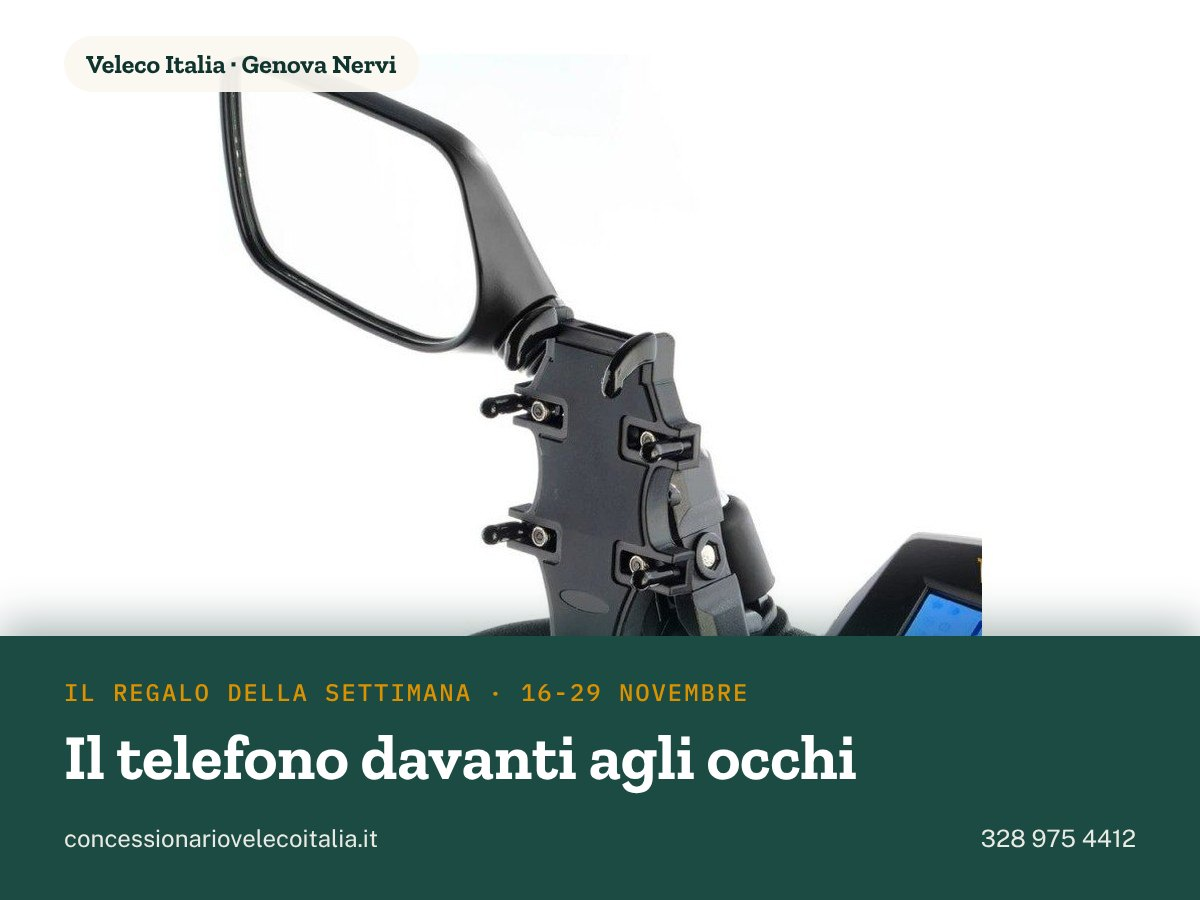
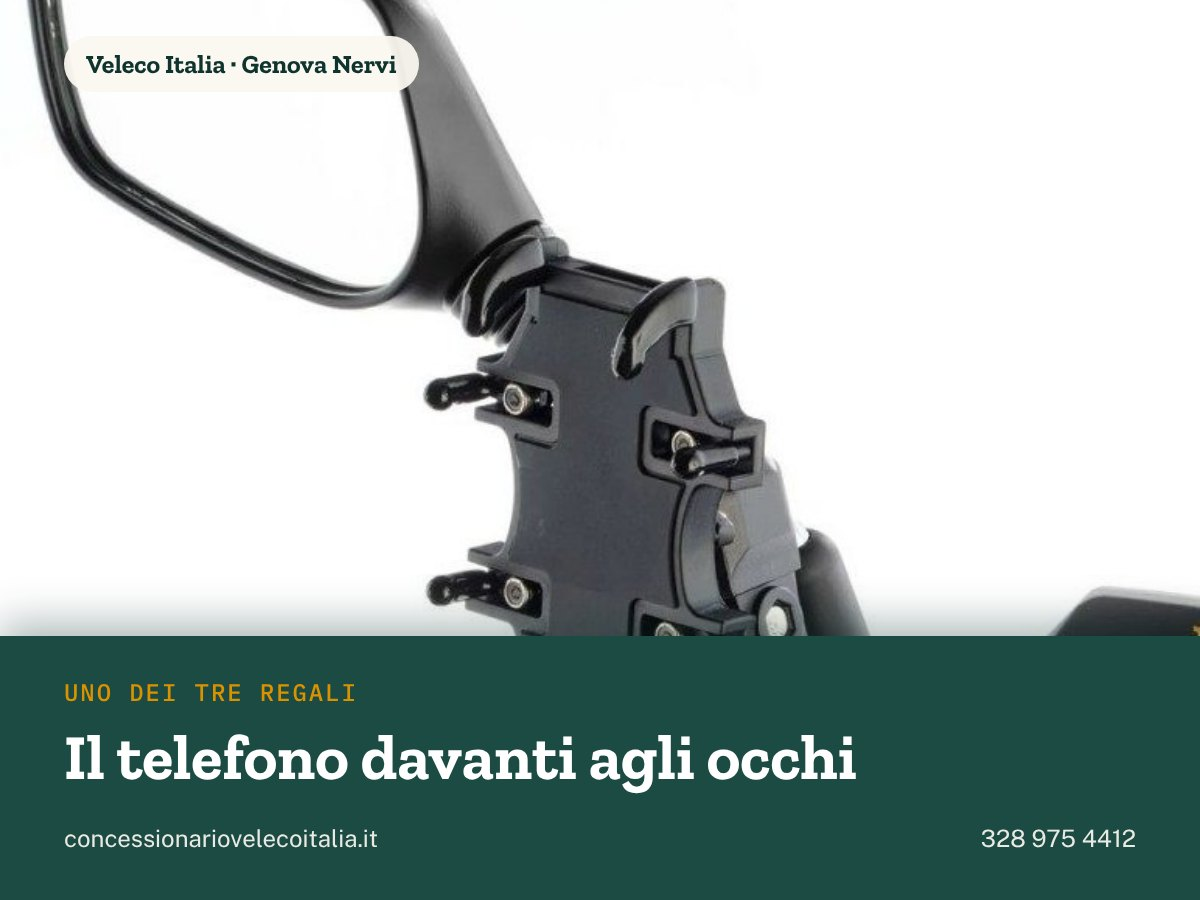
Post: gli otto sabati riscritti sui tre regali, grafiche nuove
La rotazione settimanale non esiste piu', quindi i post del sabato
andavano riscritti, non scambiati.

- sab 7/11 "Tre regali, non uno": l'annuncio
- sab 14, 21, 28/11: un accessorio per volta, ma come uno dei tre
- sab 5/12 "Due pronti in magazzino": gli unici che arrivano per Natale
  (segnato nel documento: da controllare con Valentina prima di uscire)
- sab 12/12 una giornata con tutti e tre, poi il conto alla rovescia
- 14 chiuse degli altri post: "un accessorio" diventa "tre accessori";
  le due righe di presenta-un-amico restano come sono (un accessorio
  a testa e' un'altra promozione)
- 16 grafiche nuove (8 per la scheda Google, 8 per Instagram), con la
  composizione dei tre accessori affiancati

Claude-Session: https://claude.ai/code/session_01CAjD1aQxwTaP4Mkvado2sx

diff --git a/seo/post-riscritti-nov-dic-2026.md b/seo/post-riscritti-nov-dic-2026.md
@@ -9,7 +9,7 @@ Versione del 4/11/2026. **È questo il documento da cui copiare nel planner.** S
 |---|---|---|
 | Martedì | **Lo dice chi l'ha comprato**: una recensione vera, due righe di Valentina | 10:00 |
 | Giovedì | **Il post nostro**: un motivo per cui il Faster cambia la giornata; dal 19/11 rilancia l'articolo del giorno | 10:00 |
-| Sabato | **Il regalo della settimana**: l'accessorio in corso e cosa risolve | 10:00 |
+| Sabato | **I regali**: uno dei tre accessori e cosa risolve, o la promozione nel suo insieme | 10:00 |
 
 Instagram esce lo stesso giorno alle 12:00, stesso tema e stessa immagine, testo più corto, nessun link
 cliccabile (il sito sta nella bio). Il sabato, dove c'è, va il reel.
@@ -17,8 +17,9 @@ cliccabile (il sito sta nella bio). Il sabato, dove c'è, va il reel.
 **I link dei post Google**: alla pagina Promo (`/promo/`) finché dura l'offerta. Fanno eccezione i giovedì
 che rilanciano un articolo: quelli portano all'articolo. Dal 1° gennaio tutti alla pagina Prezzi.
 
-**Il giro dei regali**: borsa da bracciolo 5–15/11 · supporto per il telefono 16–29/11 ·
-copertura impermeabile 30/11–13/12 · «scegli tu» 14–31/12. Chi chiama a cavallo di due settimane sceglie lui.
+**I regali**: dal 4/11 non ruotano più. Con ogni Faster entrano nella scatola tutti e tre gli
+accessori — borsa da bracciolo, supporto per il telefono, copertura impermeabile — fino al 31 dicembre.
+I sabati di novembre ne raccontano uno per volta, dicembre tiene il conto alla rovescia.
 
 **Le recensioni usate**, una per martedì, in ordine: Gemma, Roberto, Andrea, «La Guerriera di Polaris»,
 Stefania, Emiliana, Asia, Lucifero. Se la recensione di Francesca Mazzarello torna visibile su Google,
@@ -35,24 +36,26 @@ Prima di decidere, salici sopra.
 
 Nello showroom di Genova Nervi, in Via Giuseppe Pessale 20r, provi il Veleco Faster gratis. Dieci minuti bastano: capisci come si sale, come si scende, se i comandi ti vengono comodi sotto le mani. Lo guidi tu, con calma, senza nessuno che ti mette fretta.
 
-Fino al 31 dicembre, con ogni Faster la consegna a casa è compresa nel prezzo e scegli un accessorio Veleco in regalo.
+Fino al 31 dicembre, con ogni Faster la consegna a casa è compresa nel prezzo e ricevi tre accessori Veleco in regalo.
 
 Aperto da martedì a sabato, dalle 10 alle 20. Chiama Valentina al 328 975 4412 e fissa la prova.
 
-**Instagram** — Dieci minuti sul Veleco Faster e lo sai: come si sale, come si scende, dove arrivano le mani. La prova è gratuita, a Genova Nervi. Fino al 31 dicembre consegna compresa e un accessorio in regalo con ogni Faster. 328 975 4412. Sito nel link in bio. #scooterperanziani #scooterelettrico #veleco #genova #nervi
+**Instagram** — Dieci minuti sul Veleco Faster e lo sai: come si sale, come si scende, dove arrivano le mani. La prova è gratuita, a Genova Nervi. Fino al 31 dicembre consegna compresa e tre accessori in regalo con ogni Faster. 328 975 4412. Sito nel link in bio. #scooterperanziani #scooterelettrico #veleco #genova #nervi
 
-## sab 7/11 · Il regalo della settimana: la borsa
-Grafica: `2026-11-07-regalo-borsa.jpg` · `ig/2026-11-07-regalo-borsa.jpg` · Link: Promo
+## sab 7/11 · Tre regali, non uno
+Grafica: `2026-11-07-tre-regali.jpg` · `ig/2026-11-07-tre-regali.jpg` · Link: Promo
 
-Il regalo di questa settimana è la borsa da bracciolo Veleco.
+Fino al 31 dicembre, con ogni Veleco Faster entrano nella scatola tre accessori originali Veleco. Tutti e tre.
 
-Si aggancia al bracciolo, esattamente all'altezza della mano. Portafoglio, telefono, chiavi e medicine restano lì, sempre nello stesso posto: li prendi restando seduto composto, con la schiena dritta e gli occhi sulla strada.
+La borsa da bracciolo: portafoglio, telefono, chiavi e medicine all'altezza della mano.
 
-Tasca con zip davanti, scomparto grande dietro, rete laterale per la bottiglietta.
+Il supporto per il telefono: davanti agli occhi, le mani restano sui comandi.
 
-È tua con ogni Veleco Faster ordinato entro il 15 novembre, insieme alla consegna a casa compresa nel prezzo. 328 975 4412.
+La copertura impermeabile: piove di notte, la mattina il sellino è asciutto.
 
-**Instagram** — Il regalo di questa settimana: la borsa da bracciolo Veleco. Portafoglio, telefono, chiavi e medicine all'altezza della mano: li prendi senza torcerti. Tua con ogni Faster ordinato entro il 15 novembre, consegna compresa. 328 975 4412. Link in bio. #veleco #scooterperanziani #regalo
+Non devi sceglierne uno e non devi chiamare entro una certa settimana. Arrivano insieme allo scooter, con la consegna a casa compresa nel prezzo. 328 975 4412.
+
+**Instagram** — Tre regali, non uno. Fino al 31 dicembre con ogni Veleco Faster entrano nella scatola la borsa da bracciolo, il supporto per il telefono e la copertura impermeabile. Tutti e tre, più la consegna a casa compresa nel prezzo. 328 975 4412. Link in bio. #veleco #scooterperanziani #regalo
 
 ## mar 10/11 · Lo dice chi l'ha comprato: Gemma
 Grafica: `05-gemma.jpg` · `ig/2026-11-10-gemma.jpg` · Link: Promo
@@ -61,7 +64,7 @@ Grafica: `05-gemma.jpg` · `ig/2026-11-10-gemma.jpg` · Link: Promo
 
 Grazie Gemma. Spesso a cercarci è la moglie, il figlio o la figlia di chi ha smesso di uscire come prima. Scegliamo insieme il modello, organizziamo la prova, e se Genova è lontana il Faster arriva a casa già montato.
 
-Fino al 31 dicembre la consegna è compresa nel prezzo e con ogni Faster scegli un accessorio Veleco in regalo.
+Fino al 31 dicembre la consegna è compresa nel prezzo e con ogni Faster ricevi tre accessori Veleco in regalo.
 
 Al telefono risponde Valentina: 328 975 4412.
 
@@ -76,22 +79,22 @@ Il bar alle dieci. L'edicola. La panchina al sole. I nipoti all'uscita da scuola
 
 Quattro ruote a terra e una sospensione su ognuna: stai stabile sul marciapiede, sulla rampa, sul selciato. Si guida senza patente, senza bollo, senza assicurazione obbligatoria.
 
-Fino al 31 dicembre consegna a casa compresa nel prezzo e un accessorio Veleco in regalo. 328 975 4412.
+Fino al 31 dicembre consegna a casa compresa nel prezzo e tre accessori Veleco in regalo. 328 975 4412.
 
 **Instagram** — Scooter elettrico per anziani: esci quando lo decidi tu. Il bar, l'edicola, la panchina al sole. Quattro ruote a terra, si guida senza patente. Fino al 31 dicembre consegna compresa e accessorio in regalo. 328 975 4412. Link in bio. #scooterperanziani #scooterelettrico #veleco
 
-## sab 14/11 · Ultimi giorni per la borsa
-Grafica: `2026-11-14-borsa-ultimi-giorni.jpg` · `ig/2026-11-14-borsa-ultimi-giorni.jpg` · Link: Promo
+## sab 14/11 · La borsa da bracciolo
+Grafica: `2026-11-14-borsa.jpg` · `ig/2026-11-14-borsa.jpg` · Link: Promo
 
-Ultimi giorni per la borsa da bracciolo.
+Dei tre accessori che entrano nella scatola, questo è quello che usi dal primo giorno.
 
-Ci metti il pane e il giornale all'andata, la farmacia al ritorno, e le mani restano sui comandi. Chi ha male alla schiena smette di torcersi per arrivare al cestino dietro: qui è tutto davanti, all'altezza della mano.
+Si aggancia al bracciolo, esattamente all'altezza della mano. Portafoglio, telefono, chiavi e medicine restano lì, sempre nello stesso posto: li prendi restando seduto composto, con la schiena dritta e gli occhi sulla strada.
 
-È in regalo con ogni Veleco Faster ordinato entro domenica 15 novembre, insieme alla consegna a casa compresa nel prezzo. Dal 16 il regalo cambia.
+Tasca con zip davanti, scomparto grande dietro, rete laterale per la bottiglietta.
 
-328 975 4412.
+Arriva con ogni Faster ordinato entro il 31 dicembre, insieme agli altri due e alla consegna compresa nel prezzo. 328 975 4412.
 
-**Instagram** — Ultimi giorni: la borsa da bracciolo Veleco in regalo con ogni Faster ordinato entro il 15 novembre. Il pane, il giornale, la farmacia — tutto all'altezza della mano, senza torcerti. Consegna compresa. 328 975 4412. Link in bio. #veleco #scooterperanziani #genova
+**Instagram** — La borsa da bracciolo Veleco: portafoglio, telefono, chiavi e medicine all'altezza della mano, li prendi senza torcerti. È uno dei tre accessori che entrano nella scatola con ogni Faster, fino al 31 dicembre. 328 975 4412. Link in bio. #veleco #scooterperanziani #regalo
 
 ## mar 17/11 · Lo dice chi l'ha comprato: Roberto
 Grafica: `2-recensione-roberto.jpg` · da fare per Instagram · Link: Promo
@@ -102,7 +105,7 @@ Lo ha scritto Roberto su Google, parlando di Valentina. È la frase che sentiamo
 
 Se stai valutando uno scooter per te o per un familiare, la prova allo showroom di Genova Nervi è gratuita e dura dieci minuti.
 
-Fino al 31 dicembre: consegna a casa compresa nel prezzo e un accessorio Veleco in regalo con ogni Faster. 328 975 4412.
+Fino al 31 dicembre: consegna a casa compresa nel prezzo e tre accessori Veleco in regalo con ogni Faster. 328 975 4412.
 
 **Instagram** — «Sono tornato indipendente nei miei spostamenti.» Grazie, Roberto. È la frase che sentiamo più spesso. Prova gratuita a Genova Nervi, e fino al 31 dicembre consegna compresa e accessorio in regalo. Link in bio. #recensioni #veleco #scooterperanziani #indipendenza
 
@@ -115,24 +118,22 @@ Da qui viene tutto il resto. Niente patente. Niente targa. Niente bollo. L'assic
 
 Si usa su marciapiedi, aree pedonali e piste ciclopedonali, a passo d'uomo in mezzo alle persone.
 
-Oggi sul sito esce la guida completa alle regole, spiegata semplice. E fino al 31 dicembre la consegna è compresa nel prezzo, con un accessorio Veleco in regalo.
+Oggi sul sito esce la guida completa alle regole, spiegata semplice. E fino al 31 dicembre la consegna è compresa nel prezzo, con tre accessori Veleco in regalo.
 
 **Instagram** — Scooter elettrico senza patente per anziani: perché non serve. È un dispositivo medico CE, non un veicolo a motore: niente patente, niente targa, niente bollo, assicurazione non obbligatoria. Si va su marciapiedi e aree pedonali, a passo d'uomo. Tutte le regole nella guida: link in bio. #senzapatente #scooterperanziani #veleco #codicedellastrada
 
-## sab 21/11 · Il regalo della settimana: il supporto per il telefono
-Grafica: da fare · Link: Promo
+## sab 21/11 · Il supporto per il telefono
+Grafica: `2026-11-21-telefono.jpg` · `ig/2026-11-21-telefono.jpg` · Link: Promo
 
-Da questa settimana il regalo cambia: è il supporto per il telefono Veleco.
+Il secondo dei tre. Quattro bracci a molla tengono il telefono davanti agli occhi, accanto al display.
 
-Il telefono sta davanti agli occhi, fissato al manubrio con quattro bracci a molla. Regge la scossa dei sampietrini e resta dove lo metti.
+Tua figlia chiama mentre sei al mercato: vedi chi è senza frugare in tasca e senza fermarti male. Le mani restano dove devono stare.
 
-Rispondi a tua figlia mentre sei fuori. Segui le indicazioni stradali fino a un indirizzo nuovo. Le mani restano sui comandi per tutto il tempo.
+E se la strada non la conosci, la mappa è lì, grande, dove la vedi.
 
-Il vantaggio vero è un altro: esci più lontano da casa, perché sai di essere raggiungibile e di ritrovare la strada.
+Entra nella scatola con ogni Faster ordinato entro il 31 dicembre, insieme agli altri due. 328 975 4412.
 
-In regalo con ogni Veleco Faster ordinato entro il 29 novembre, consegna a casa compresa. 328 975 4412.
-
-**Instagram** — Il regalo di questa settimana: il supporto per il telefono Veleco. Quattro bracci a molla, il telefono davanti agli occhi, le mani sui comandi. Rispondi a tua figlia mentre sei fuori e ritrovi la strada ovunque. Con ogni Faster entro il 29 novembre. Link in bio. #veleco #scooterperanziani #regalo
+**Instagram** — Il supporto per il telefono Veleco: quattro bracci a molla, il telefono davanti agli occhi, le mani sui comandi. Rispondi a tua figlia mentre sei fuori e ritrovi la strada ovunque. Uno dei tre accessori in regalo con ogni Faster, fino al 31 dicembre. Link in bio. #veleco #scooterperanziani #regalo
 
 ## mar 24/11 · Lo dice chi l'ha comprato: Andrea
 Grafica: `07-andrea.jpg` · da fare per Instagram · Link: Promo
@@ -143,7 +144,7 @@ Grazie Andrea. Lo aveva comprato per suo fratello, che fa fatica a camminare: è
 
 Se sei in quella posizione, sul sito c'è una guida in dieci domande: dove si può andare, quale batteria conviene, quanta autonomia serve davvero, cosa controllare prima di comprare.
 
-Fino al 31 dicembre consegna compresa e un accessorio Veleco in regalo. 328 975 4412.
+Fino al 31 dicembre consegna compresa e tre accessori Veleco in regalo. 328 975 4412.
 
 **Instagram** — «Consegna puntuale, scooter davvero molto bello. Mio fratello è davvero contento.» Grazie, Andrea. Scegli per una persona a cui vuoi bene? Sul sito c'è una guida in dieci domande. Link in bio. #recensioni #veleco #scooterperanziani #famiglia
 
@@ -160,24 +161,18 @@ Oggi sul sito esce l'articolo con i conti fatti per bene. Fino al 31 dicembre co
 
 **Instagram** — Autonomia dello scooter elettrico per anziani: 45-60 km con una carica. Detta in giorni: più di una settimana di uscite. Il mercato, la farmacia, il bar, i nipoti. Attacchi la spina una volta a settimana. Tutti i conti nell'articolo: link in bio. #autonomia #scooterperanziani #veleco #velecofaster
 
-## sab 28/11 · Ultimi giorni per il supporto del telefono
-Grafica: da fare · Link: Promo
+## sab 28/11 · La copertura impermeabile
+Grafica: `2026-11-28-copertura.jpg` · `ig/2026-11-28-copertura.jpg` · Link: Promo
 
-Ultimi giorni per il supporto del telefono.
+Il terzo dei tre, e quello che si apprezza proprio adesso.
 
-È l'accessorio che cambia il raggio delle tue uscite: con il telefono davanti agli occhi e le mani sui comandi, ti spingi dove prima non andavi, perché sai di essere raggiungibile e di ritrovare la strada.
+Lo stendi sopra la sera. L'elastico abbraccia il fondo, la cinghia con la fibbia passa sotto la scocca: resta ferma anche quando tira vento.
 
-Quattro bracci a molla lo tengono fermo anche sui sampietrini.
+La mattina lo scopri e il sellino è asciutto. Sali e parti, senza passare lo straccio.
 
-In regalo con ogni Veleco Faster ordinato entro domenica 29 novembre, insieme alla consegna compresa nel prezzo. Dal 30 il regalo cambia: arriva la copertura impermeabile.
+Arriva con ogni Faster ordinato entro il 31 dicembre, insieme alla borsa e al supporto per il telefono. 328 975 4412.
 
-328 975 4412.
-
-**Instagram** — Ultimi giorni per il supporto del telefono Veleco, in regalo con ogni Faster ordinato entro il 29 novembre. Telefono davanti agli occhi, mani sui comandi, e ti spingi più lontano da casa. Dal 30 cambia il regalo. Link in bio. #veleco #scooterperanziani #regalo
-
----
-
-# DICEMBRE
+**Instagram** — La copertura impermeabile Veleco: copre fino a terra, elastico sul bordo e cinghia sotto la scocca, resta ferma col vento. Piove di notte, la mattina il sellino è asciutto. Uno dei tre accessori in regalo con ogni Faster, fino al 31 dicembre. Link in bio. #veleco #scooterperanziani #regalo
 
 ## mar 1/12 · Lo dice chi l'ha comprato: le quattro ruote
 Grafica: da fare · Link: Promo
@@ -188,7 +183,7 @@ Una delle recensioni più lunghe che abbiamo ricevuto, e il punto è tutto lì: 
 
 Quattro ruote a terra, sospensioni su ognuna, ruotine antiribaltamento. Il marciapiede alto, la rampa, il fondo sconnesso: li affronti seduto comodo.
 
-Fino al 31 dicembre consegna a casa compresa nel prezzo e un accessorio Veleco in regalo con ogni Faster. 328 975 4412.
+Fino al 31 dicembre consegna a casa compresa nel prezzo e tre accessori Veleco in regalo con ogni Faster. 328 975 4412.
 
 **Instagram** — «Le quattro ruote garantiscono una sicurezza ineguagliabile. Ora posso godere di una nuova libertà di movimento.» Dalle recensioni dei nostri clienti su Google. Quattro ruote, sospensioni su ognuna, ruotine antiribaltamento. Link in bio. #recensioni #scooter4ruote #veleco #scooterperanziani
 
@@ -207,20 +202,21 @@ Oggi sul sito esce l'articolo completo. 328 975 4412.
 
 **Instagram** — Scooter per disabili e anziani: chi può guidarlo? Serve saper stare seduto, vedere la strada e avere la mano ferma sul comando. Niente patente, nessun certificato, nessun limite d'età. Nel dubbio si prova: dieci minuti a Genova Nervi. Link in bio. #scooterperdisabili #scooterperanziani #veleco
 
-## sab 5/12 · Il regalo della settimana: la copertura impermeabile
-Grafica: da fare · Link: Promo
+## sab 5/12 · Due pronti, in magazzino
+Grafica: `2026-12-05-due-pronti.jpg` · `ig/2026-12-05-due-pronti.jpg` · Link: Promo
 
-Il regalo di questa settimana è la copertura impermeabile Veleco.
+> ⚠ **Da controllare con Valentina il venerdì prima.** Se nel frattempo li ha venduti,
+> questo post non esce e si sostituisce. È l'unico post del calendario legato al magazzino.
 
-Copre lo scooter fino a terra. Elastico sul bordo inferiore e cinghia con fibbia sotto la scocca: resta ferma anche con il vento.
+Ne abbiamo due pronti: un Faster piombo gel a 2.200 € e un Faster litio a 2.850 €.
 
-Pioggia, neve e umidità della notte restano fuori. La mattina sollevi il telo e il sellino è asciutto, pronto: non devi passare lo straccio prima di partire.
+Sono gli unici due che possono arrivare prima di Natale. Gli altri si ordinano alla fabbrica, e i tempi te li diciamo al telefono.
 
-È l'accessorio giusto per chi parcheggia in cortile, sotto un portico o in giardino.
+Consegna compresa nel prezzo, i tre accessori nella scatola, già montato e collaudato.
 
-In regalo con ogni Veleco Faster ordinato entro il 13 dicembre, consegna a casa compresa. 328 975 4412.
+Quando sono andati, sono andati. 328 975 4412.
 
-**Instagram** — Il regalo di questa settimana: la copertura impermeabile Veleco. Copre fino a terra, elastico sul bordo e cinghia sotto la scocca: resta ferma col vento. La mattina il sellino è asciutto. Con ogni Faster entro il 13 dicembre. Link in bio. #veleco #scooterperanziani #regalo
+**Instagram** — Due Faster pronti: piombo gel a 2.200 € e litio a 2.850 €. Sono gli unici due che possono arrivare prima di Natale, gli altri si ordinano alla fabbrica. Consegna compresa e i tre accessori nella scatola. 328 975 4412. Link in bio. #veleco #scooterperanziani #natale
 
 ## mar 8/12 · Lo dice chi l'ha comprato: Stefania
 Grafica: da fare · Link: Promo
@@ -231,7 +227,7 @@ Grazie Stefania. Due mezzi diversi per due esigenze diverse, scelti insieme: uno
 
 È il motivo per cui prima di vendere facciamo domande: dove abiti, dove vuoi andare, dove lo tieni, chi lo userà. Il mezzo giusto esce da lì.
 
-Fino al 31 dicembre consegna compresa e un accessorio Veleco in regalo con ogni Faster. 328 975 4412.
+Fino al 31 dicembre consegna compresa e tre accessori Veleco in regalo con ogni Faster. 328 975 4412.
 
 **Instagram** — «Due scooter, di cui uno pieghevole per il bagagliaio. Prodotti prestanti, ma soprattutto grande supporto della titolare.» Grazie, Stefania. Prima di vendere facciamo domande: il mezzo giusto esce da lì. Link in bio. #recensioni #veleco #scooterperanziani
 
@@ -244,24 +240,22 @@ In Italia li chiamiamo scooter per anziani, scooter per disabili, scooter elettr
 
 Quello che cambia davvero non è il nome: sono le ruote (tre per girare stretto, quattro per stare stabili), la batteria (piombo o litio estraibile) e la portata.
 
-Oggi sul sito esce l'articolo che mette ordine fra i modelli. E fino al 31 dicembre, con ogni Faster, consegna compresa e un accessorio in regalo.
+Oggi sul sito esce l'articolo che mette ordine fra i modelli. E fino al 31 dicembre, con ogni Faster, consegna compresa e tre accessori in regalo.
 
 **Instagram** — Mobility scooter: è il nome inglese degli scooter elettrici per anziani e per chi cammina con fatica. Tre ruote per girare stretto, quattro per stare stabili. Batteria al piombo o al litio estraibile. L'articolo che mette ordine: link in bio. #mobilityscooter #scooterperanziani #veleco
 
-## sab 12/12 · Ultimi giorni per la copertura
-Grafica: da fare · Link: Promo
+## sab 12/12 · Una giornata con tutti e tre
+Grafica: `2026-12-12-tutti-e-tre.jpg` · `ig/2026-12-12-tutti-e-tre.jpg` · Link: Promo
 
-Ultimi giorni per la copertura impermeabile.
+Esci la mattina. Il telefono è davanti a te sul manubrio, le chiavi e il portafoglio nella borsa alla tua destra.
 
-È l'accessorio che si apprezza a gennaio, non adesso: la notte in cui piove forte, e la mattina dopo il sellino è asciutto e tu esci lo stesso.
+Fai la spesa, passi in farmacia, ti fermi al bar. Non cerchi niente in tasca e non scendi per rispondere.
 
-Copre fino a terra, elastico sul bordo e cinghia con fibbia sotto la scocca.
+La sera lo lasci sotto casa e lo copri. Domattina è asciutto.
 
-In regalo con ogni Veleco Faster ordinato entro domenica 13 dicembre, insieme alla consegna compresa. Dal 14 scegli tu quale dei tre accessori preferisci.
+Sono i tre accessori che entrano nella scatola con ogni Faster, fino al 31 dicembre. 328 975 4412.
 
-328 975 4412.
-
-**Instagram** — Ultimi giorni per la copertura impermeabile Veleco, in regalo con ogni Faster entro il 13 dicembre. È l'accessorio che si apprezza a gennaio: piove di notte, la mattina il sellino è asciutto. Dal 14 scegli tu il regalo. Link in bio. #veleco #scooterperanziani #regalo
+**Instagram** — Il telefono davanti agli occhi, le chiavi e il portafoglio a portata di mano, la sera la copertura. Tre accessori Veleco, tutti e tre nella scatola con ogni Faster fino al 31 dicembre. 328 975 4412. Link in bio. #veleco #scooterperanziani #regalo
 
 ## mar 15/12 · Lo dice chi l'ha comprato: Emiliana
 Grafica: da fare · Link: Promo
@@ -291,18 +285,18 @@ Oggi sul sito esce l'articolo sugli scooter coperti. 328 975 4412.
 
 **Instagram** — Scooter elettrico per anziani coperto: tetto rigido e parabrezza trasparente. Ripara dal sole e dalla pioggia leggera, il parabrezza ferma il vento. Esci anche nelle giornate in cui prima restavi a casa. Faster, Gravis, Draco e Turris. Link in bio. #scooterconTetto #scooterperanziani #veleco
 
-## sab 19/12 · Scegli tu il regalo
-Grafica: da fare · Link: Promo
+## sab 19/12 · Dodici giorni
+Grafica: `2026-12-19-dodici-giorni.jpg` · `ig/2026-12-19-dodici-giorni.jpg` · Link: Promo
 
-Da oggi il regalo lo scegli tu.
+Mancano dodici giorni alla fine della promozione.
 
-Fino al 31 dicembre, con ogni Veleco Faster, prendi l'accessorio che ti serve davvero: la borsa da bracciolo, il supporto per il telefono o la copertura impermeabile.
+Fino al 31 dicembre il Faster arriva a casa con la consegna compresa nel prezzo e tre accessori originali Veleco nella scatola.
 
-Sono i tre accessori che i clienti comprano più spesso dopo qualche mese di utilizzo. Qui li ricevi subito, senza spendere niente, insieme alla consegna a casa compresa nel prezzo.
+Dal 1º gennaio si torna alle condizioni normali.
 
-Se lo stai regalando a qualcuno, scegliamo insieme al telefono quello giusto per lui: 328 975 4412.
+Se ci stai pensando da un po', è il momento di fare la telefonata. Dieci minuti e sai se è il mezzo giusto. 328 975 4412.
 
-**Instagram** — Da oggi il regalo lo scegli tu: borsa da bracciolo, supporto per il telefono o copertura impermeabile, con ogni Veleco Faster fino al 31 dicembre. Sono i tre accessori che i clienti comprano dopo qualche mese: qui li hai subito. Link in bio. #veleco #scooterperanziani #regalo #natale
+**Instagram** — Dodici giorni alla fine della promozione: consegna a casa compresa nel prezzo e tre accessori Veleco con ogni Faster. Dal 1º gennaio si torna alle condizioni normali. Dieci minuti al telefono e sai se è il mezzo giusto. Link in bio. #veleco #scooterperanziani #ultimigiorni
 
 ## gio 24/12 · Regala un'uscita
 Grafica: `09-presenta-un-amico.jpg` · Link: Presenta un amico
@@ -319,18 +313,18 @@ Ad acquisto concluso scegliete un accessorio in regalo a testa. Il suo viaggia i
 
 **Instagram** — Buon Natale da Valentina. Conosci qualcuno che sta oggi come stavi tu un anno fa? Presentamelo: lo chiamo io e gli spiego tutto con calma, senza pressione. Ad acquisto concluso un accessorio in regalo a testa. Come funziona: link in bio. #buonnatale #presentaunamico #veleco #genova
 
-## sab 26/12 · Ultima settimana per il regalo
-Grafica: da fare · Link: Promo
+## sab 26/12 · Ultima settimana
+Grafica: `2026-12-26-ultima-settimana.jpg` · `ig/2026-12-26-ultima-settimana.jpg` · Link: Promo
 
 Ultima settimana.
 
-Fino al 31 dicembre, con ogni Veleco Faster, la consegna a casa è compresa nel prezzo e scegli un accessorio Veleco in regalo: borsa da bracciolo, supporto per il telefono o copertura impermeabile.
+Consegna a casa compresa nel prezzo e tre accessori Veleco con ogni Faster, fino al 31 dicembre. Faster da 2.200 €, già montato, due anni di garanzia e un numero diretto a cui risponde chi te l'ha venduto.
 
-Il Faster costa 2.200 € con batteria al piombo gel e 2.850 € con batteria al litio estraibile. Nel prezzo c'è lo scooter già montato, telecomando e allarme di serie, due anni di garanzia gestita da noi e un numero diretto a cui risponde chi te l'ha venduto.
+Dal 1º gennaio si torna alle condizioni normali.
 
-Dal 1° gennaio si torna alle condizioni normali. 328 975 4412.
+328 975 4412.
 
-**Instagram** — Ultima settimana: consegna compresa e un accessorio Veleco a scelta con ogni Faster, fino al 31 dicembre. Faster da 2.200 €, già montato, due anni di garanzia e un numero diretto. Dal 1° gennaio si torna alle condizioni normali. Link in bio. #veleco #scooterperanziani #ultimigiorni
+**Instagram** — Ultima settimana: consegna compresa e tre accessori Veleco con ogni Faster, fino al 31 dicembre. Faster da 2.200 €, già montato, due anni di garanzia e un numero diretto. Dal 1º gennaio si torna alle condizioni normali. Link in bio. #veleco #scooterperanziani #ultimigiorni
 
 ## mar 29/12 · Lo dice chi l'ha comprato: dieci su dieci
 Grafica: da fare · Link: Promo
@@ -339,7 +333,7 @@ Grafica: da fare · Link: Promo
 
 Chiudiamo l'anno con le recensioni su Google tutte a cinque stelle. Dietro non c'è un ufficio: c'è una persona sola, Valentina, che risponde al telefono, organizza le prove, segue ogni consegna e resta raggiungibile anche dopo.
 
-Se stai pensando di regalarti un'uscita in più nel 2027, mancano tre giorni alla fine della promozione: consegna compresa e un accessorio a scelta con ogni Faster.
+Se stai pensando di regalarti un'uscita in più nel 2027, mancano tre giorni alla fine della promozione: consegna compresa e tre accessori in regalo con ogni Faster.
 
 328 975 4412.
 
@@ -350,7 +344,7 @@ Grafica: da fare · Link: Promo
 
 Che sia un anno di uscite.
 
-Ultimo giorno della promozione: consegna a casa compresa nel prezzo e un accessorio Veleco a scelta con ogni Faster.
+Ultimo giorno della promozione: consegna a casa compresa nel prezzo e tre accessori Veleco in regalo con ogni Faster.
 
 Ma al di là delle date, l'augurio è semplice: che il 2027 sia l'anno in cui torni al mercato il mercoledì, al bar la mattina, in riva al mare quando c'è il sole. Senza chiedere un passaggio a nessuno.
 
